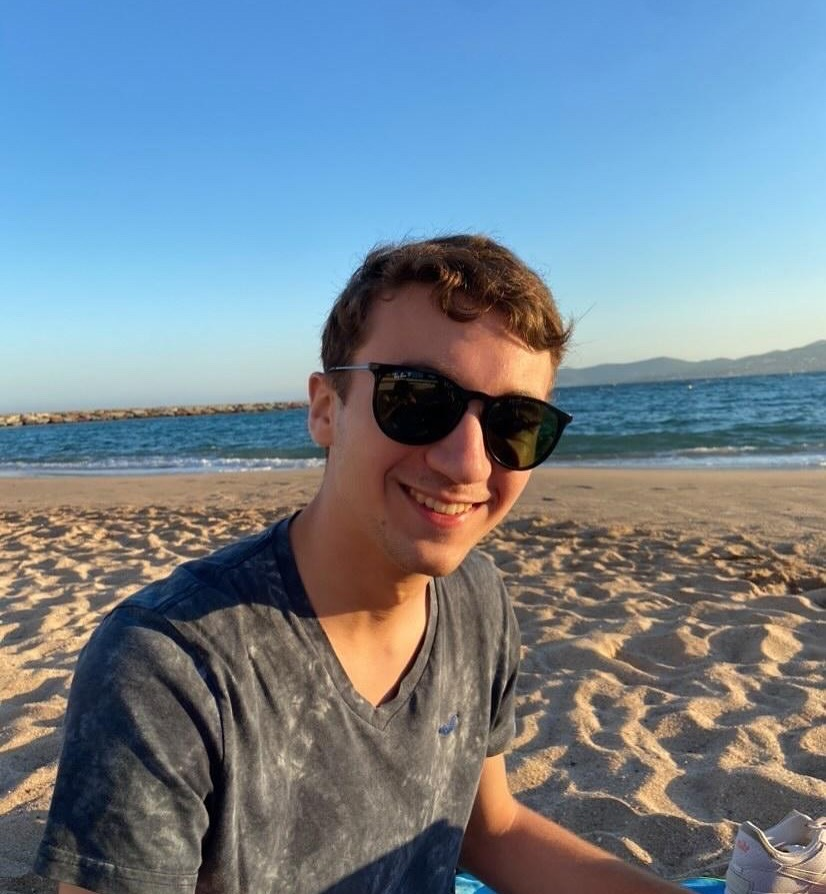
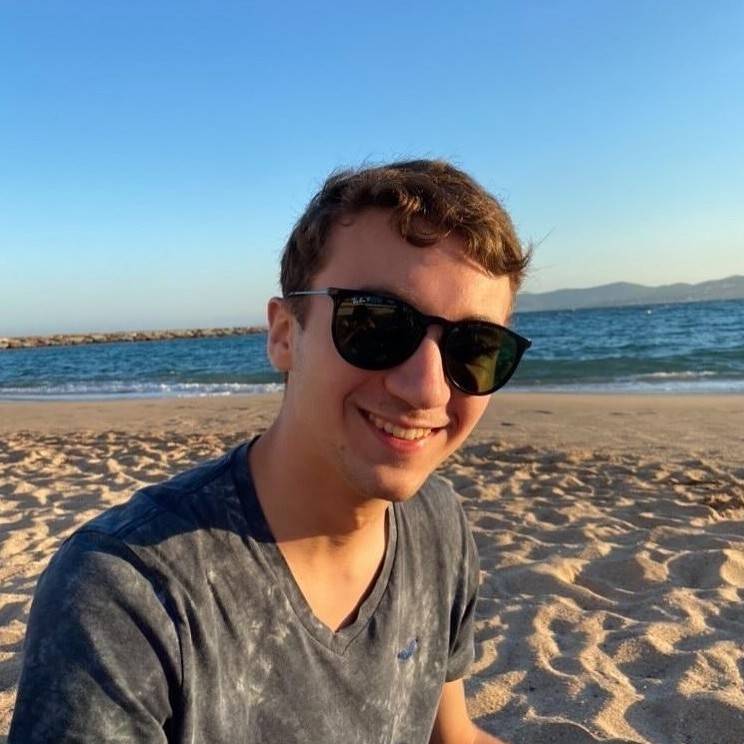
updating CV + changes on about

diff --git a/_pages/about.md b/_pages/about.md
@@ -29,9 +29,4 @@ Student in the apprenticeship program [IPSI](https://www.telecom-st-etienne.fr/e
 
 Since it is my **personal** website, the content within do not express the company's opinions I work for.
 
-Here is a quick overview of my website :
-- [Blog](https://albanpi.github.io/blog/) page is my BlogPost.
-- [Project](https://albanpi.github.io/projects/) page gathers the projects I'm involved in either it is computer science or enginneering.
-- [Repositories](https://albanpi.github.io/repositories/) page gives a quick overview of my GitHub profile and my main repos.
-- [CV](https://albanpi.github.io/cv/) page is where you can find my résumé in english :uk:.
-- [Teaching](https://albanpi.github.io/teaching/) page hosts my teaching materials.
+Here is a quick overview of my website : [Blog](https://albanpi.github.io/blog/) page is my BlogPost, [Project](https://albanpi.github.io/projects/) page gathers the projects I'm involved in either it is computer science or enginneering, [Repositories](https://albanpi.github.io/repositories/) page gives a quick overview of my GitHub profile and my main repos, [CV](https://albanpi.github.io/cv/) page is where you can find my résumé in english :uk: and [Teaching](https://albanpi.github.io/teaching/) page hosts my teaching materials.

diff --git a/_pages/cv.md b/_pages/cv.md
@@ -4,8 +4,8 @@ permalink: /cv/
 title: CV
 nav: true
 nav_order: 5
-cv_pdf: example_pdf.pdf # you can also use external links here
-description: This is a description of the page. You can modify it in '_pages/cv.md'. You can also change or remove the top pdf download button.
+#cv_pdf: example_pdf.pdf # you can also use external links here
+description: My résumé below.
 toc:
   sidebar: left
 ---
